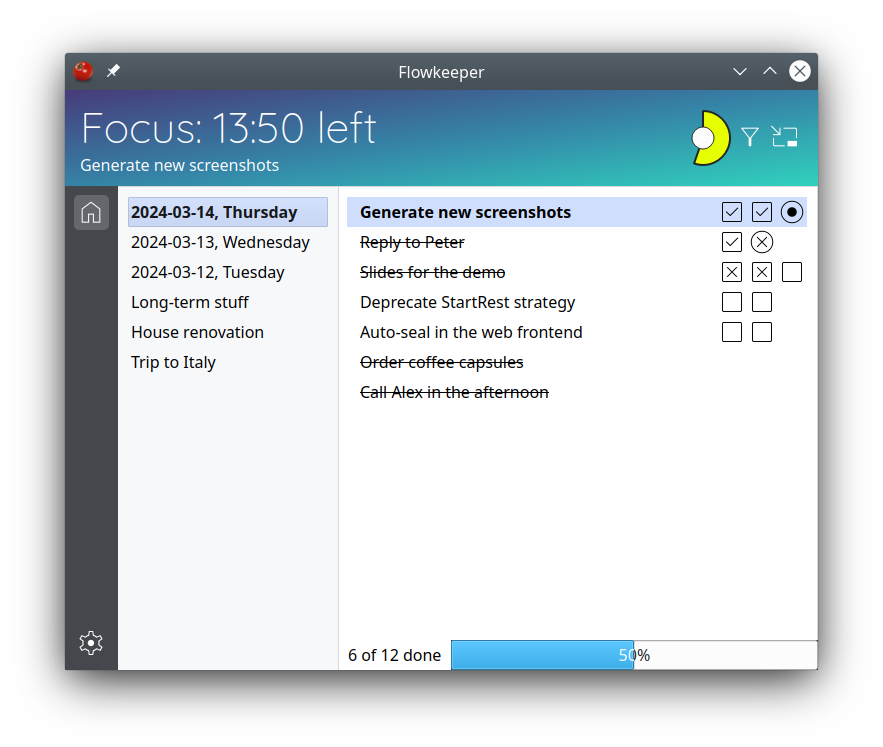
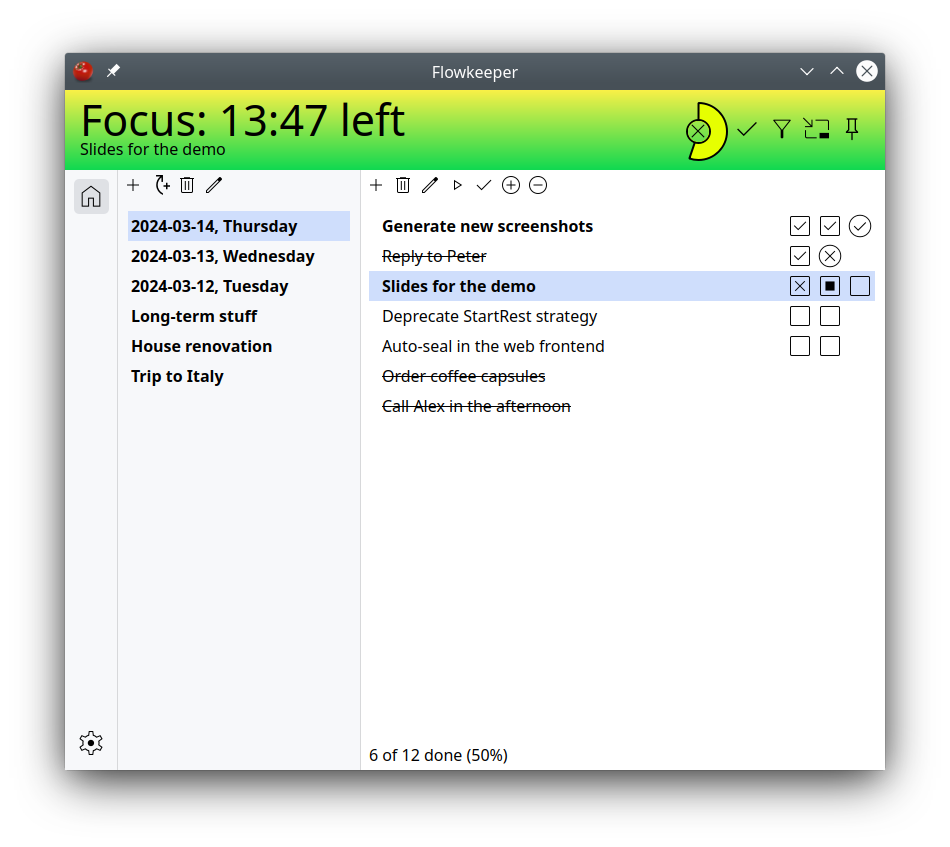
Generating "main" screenshots automatically.

diff --git a/src/fk/e2e/screenshot.py b/src/fk/e2e/screenshot.py
@@ -29,6 +29,7 @@ logger = logging.getLogger(__name__)
 
 class Screenshot:
     _method: Callable[[str], None]
+    _spectacle_works: bool
 
     def __init__(self):
         self._method = None
@@ -45,37 +46,50 @@ class Screenshot:
             Screenshot._take_powershell,
             Screenshot._take_screencapture,
         ]:
-            file = f'test-results/check-{random.randint(100000, 999999)}.png'
-            try:
-                m(file)
-                im = Image.open(file)
-                if im.getbbox():
-                    logger.info(f'Screenshot method {m.__name__} works')
-                    self._method = m
-                    break
-                else:
-                    logger.warning(f'Taking screenshot via {m.__name__} resulted in an empty image')
-            except Exception as e:
-                logger.warning(f'Taking screenshot via {m.__name__} failed')
-            finally:
-                if os.path.exists(file):
-                    os.unlink(file)
+            if Screenshot._check_method(m):
+                self._method = m
+                break
+        self._spectacle_works = self._check_method(Screenshot._take_spectacle_active)
+
+    @staticmethod
+    def _check_method(method: Callable[[str], None]) -> bool:
+        file = f'test-results/check-{random.randint(100000, 999999)}.png'
+        try:
+            method(file)
+            im = Image.open(file)
+            if im.getbbox():
+                logger.info(f'Screenshot method {method.__name__} works')
+                return True
+            else:
+                logger.warning(f'Taking screenshot via {method.__name__} resulted in an empty image')
+        except Exception as e:
+            logger.warning(f'Taking screenshot via {method.__name__} failed')
+        finally:
+            if os.path.exists(file):
+                os.unlink(file)
+        return False
 
     def take_screen(self, name: str) -> str:
         if self._method is None:
             logger.warning(f'Tried to take screenshot {name}, but couldn\'t find how to do it')
         else:
             filename = f'test-results/{name}-full.png'
-            logger.debug(f'Taking full-screen screenshot {filename} via {self._method.__name__}')
+            logger.debug(f'Taking full-screen screenshot {filename} using {self._method.__name__}')
             return self._method(filename)
 
     def take_window(self, name: str, window: QWidget) -> str:
-        if self._method is None:
-            logger.warning(f'Tried to take screenshot {name}, but couldn\'t find how to do it')
-        else:
-            filename = f'test-results/{name}-window.png'
-            logger.debug(f'Taking screenshot {filename} of window {window.objectName()} via {self._method.__name__}')
-            window.grab().save(filename)
+        # First take a screenshot using Qt built-in feature -- this always works, but it
+        # can't capture window's border.
+        filename = f'test-results/{name}-window.png'
+        logger.debug(f'Taking screenshot {filename} of window {window.objectName()} using Qt')
+        window.grab().save(filename)
+
+        # Then, if Spectacle is available, take another one with a nice shadow border.
+        # Even on Linux this only works with XOrg, but _check_method() should take care of it.
+        if self._spectacle_works:
+            filename = f'test-results/{name}-window-border.png'
+            logger.debug(f'Taking screenshot {filename} of window {window.objectName()} using Spectacle')
+            self._take_spectacle_active(filename)
 
     @staticmethod
     def _take_scrot(filename: str) -> None:
@@ -132,6 +146,15 @@ class Screenshot:
     def _take_spectacle(filename: str) -> None:
         subprocess.run(["spectacle",
                         "--fullscreen",
+                        "--background",
+                        "--nonotify",
+                        "--output",
+                        filename])
+
+    @staticmethod
+    def _take_spectacle_active(filename: str) -> None:
+        subprocess.run(["spectacle",
+                        "--activewindow",
                         "--background",
                         "--nonotify",
                         "--output",

diff --git a/src/fk/e2e/screenshots_e2e.py b/src/fk/e2e/screenshots_e2e.py
@@ -8,6 +8,7 @@ from PySide6.QtWidgets import QTabWidget, QComboBox, QLineEdit, QCheckBox
 
 from fk.core.abstract_data_item import generate_uid
 from fk.core.pomodoro import Pomodoro
+from fk.core.pomodoro_strategies import StartWorkStrategy
 from fk.core.workitem import Workitem
 from fk.desktop.application import Application
 from fk.e2e.abstract_e2e_test import AbstractE2eTest, WINDOW_GALLERY_FILENAME, SCREEN_GALLERY_FILENAME
@@ -46,6 +47,7 @@ class ScreenshotE2eTest(AbstractE2eTest):
             'Application.window_height': '680',
             'Application.window_splitter_width': '260',
             'Application.window_width': '820',
+            'Application.theme': 'mixed',
         }
         if os.name == 'nt':
             custom['Application.font_main_size'] = '10'
@@ -239,20 +241,69 @@ class ScreenshotE2eTest(AbstractE2eTest):
         await self._void_pomodoro()
         await self._complete_workitem()
 
-        await self._find_workitem('Slides for the demo')
-        await self._start_pomodoro()
-        await self._wait_mid_pomodoro()
-        await self._void_pomodoro()
-        await self._start_pomodoro()
-        await self._wait_mid_pomodoro()
-        await self._void_pomodoro()
-        await self._complete_workitem()
-
         await self._find_workitem('Order coffee capsules')
         await self._complete_workitem()
 
         await self._find_workitem('Call Alex in the afternoon')
         await self._complete_workitem()
+
+        await self._find_workitem('Slides for the demo')
+        await self._start_pomodoro()
+        await self._wait_mid_pomodoro()
+        await self._void_pomodoro()
+
+        # Take two "main" screenshots right in the middle of this pomodoro
+        settings = self.get_application().get_settings()
+        old_value_work = settings.get('Pomodoro.default_work_duration')
+        old_value_rest = settings.get('Pomodoro.default_rest_duration')
+        old_value_style = settings.get('Application.timer_ui_mode')
+        old_value_theme = settings.get('Application.theme')
+        old_gradient = settings.get('Application.eyecandy_gradient')
+        settings.set({
+            'Pomodoro.default_work_duration': '1500',
+            'Pomodoro.default_rest_duration': '300',
+            'Application.timer_ui_mode': 'keep',
+            'Application.theme': 'light',
+            'Application.eyecandy_gradient': 'HiddenJaguar',
+        })
+
+        # Start a Pomodoro in the past
+        source = self.get_application().get_source_holder().get_source()
+        workitem_id = None
+        for w in source.workitems():
+            if w.get_name() == 'Slides for the demo':
+                workitem_id = w.get_uid()
+        source.execute_prepared_strategy(StartWorkStrategy(
+            1,
+            datetime.datetime.now(datetime.timezone.utc) - datetime.timedelta(seconds=670),
+            'user@local.host',
+            [workitem_id, '1500'],
+            settings))
+        await self._wait_mid_pomodoro()
+        await self._wait_mid_pomodoro()
+        await self._wait_mid_pomodoro()
+        await self._wait_mid_pomodoro()
+
+        self.take_screenshot('18-main-light')
+
+        settings.set({
+            'Application.theme': 'dark',
+            'Application.eyecandy_gradient': old_gradient,
+        })
+        await self.longer_pause()
+        self.take_screenshot('19-main-dark')
+
+        await self._void_pomodoro()
+        await self._complete_workitem()
+
+        settings.set({
+            'Pomodoro.default_work_duration': old_value_work,
+            'Pomodoro.default_rest_duration': old_value_rest,
+            'Application.timer_ui_mode': old_value_style,
+            'Application.theme': old_value_theme,
+            'Application.eyecandy_gradient': old_gradient,
+        })
+        await self.longer_pause()
 
         await self._find_workitem('Generate new screenshots')
 
